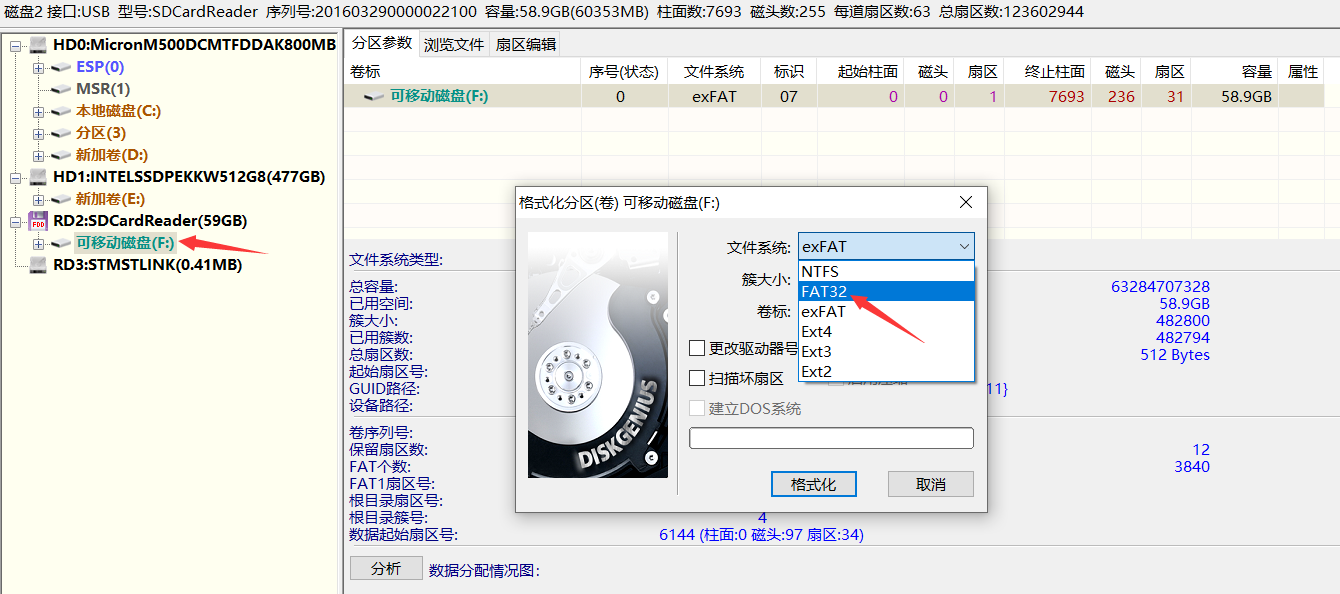
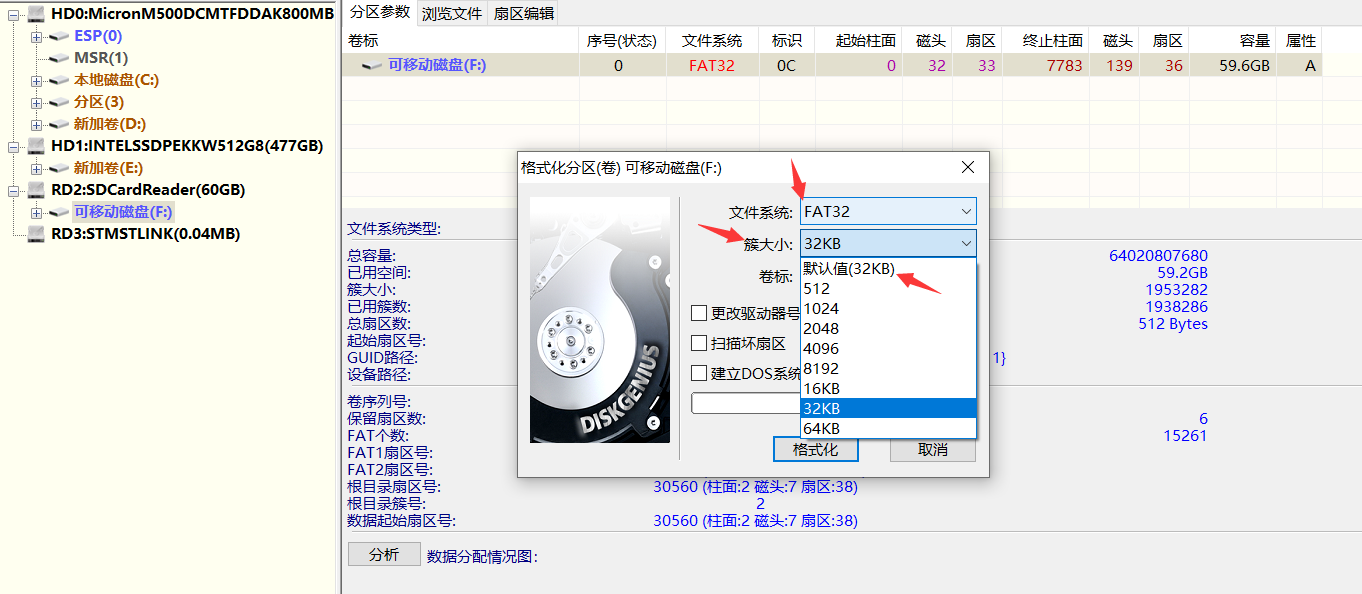
2023-03-16

diff --git a/H750VBT6_chapter_88/README.md b/H750VBT6_chapter_88/README.md
@@ -6,7 +6,7 @@
 
 FATFS版本：R0.12c
 
-本工程使用三星64G evo 红卡 和闪迪64G ultra测试，使用DiskGenius格式化两款sd卡为FAT32 + 簇大小32KB（默认值），簇大小多大的问题
+本工程使用三星64G evo 红卡 和闪迪64G ultra测试，使用DiskGenius格式化两款sd卡为FAT32 + 簇大小32KB（默认值）
 
 ## 参考资料
 
@@ -499,7 +499,7 @@ SDMMC 时钟源200MHz，分频 4，SDMMC 时钟50MHz
 
 exFAT 报错无法被 H7 发现 有效的分区，使用 DiskGenius格式化为FAT32后识别：
 
-![将闪迪64G_Ultra格式化为FAT32](Images/将闪迪64G_Ultra格式化为FAT32.png)
+![](Images/将闪迪64G_Ultra从exFAT格式化为FAT32.png)
 
 原因在CubeMX 配置我没有开启 exFAT支持：导致生成的的 ffconf.h 路径: FATFS/Target/ffconf.h 中 _FS_EXFAT 未使能
 
@@ -862,4 +862,98 @@ TEST FILE LEN: 8192KB
 开始读文件 8192KB ...
   读耗时 : 879ms   平均读速度 : 4657156B/S (9319KB/S)
 ```
+
+## 簇大小
+
+本工程使用三星64G evo 红卡 和闪迪64G ultra测试，使用DiskGenius格式化两款sd卡为FAT32 + 簇大小32KB（默认值），但格式化时可选簇大小有很多：
+
+![](Images/将闪迪64G_Ultra格式化为FAT32.png)
+
+### 问题
+
+[簇大小有什么影响？](https://wgznz.com/zhinan/10523-1.html)、[什么是磁盘碎片？](https://zhuanlan.zhihu.com/p/313088037)
+
+### 簇大小与储存效率
+
+测试不同IO/SIZE后的SD卡内的speed文件的大小等于占用空间，储存效率是 100%
+
+![](Images/簇大小32KB测试2.png)
+
+新建两个文本文档，其中1.txt 中未写入任何字符，2.txt 中随便敲了几个字符，二者大小和占用空间如下：
+
+![](Images/簇大小32KB测试1.png)
+
+可以看到 1.txt 中未写入任何字符 的占用 0字节，文件头不会被属性的占用空间统计，2.txt 中写入了几个字符，但不足簇大小，划分了一个簇存储，储存效率 7 / 32768 ≈ 0.021%
+
+暂时不推导到非连续储存，只考虑连续储存的规律：
+
+例1：有32个数据大小以2幂次分布的 1byte 到 4GB的文件（1B、2B、4B ... 4GB）需要连续存储在SD卡  
+
+- 当簇大小为32KB时
+
+  > 所有数据大小小于32KB的文件均占用一个32KB的簇，那么32个文件的
+  >
+  > 总占用空间为：
+  >
+  > ( log2( 32 x 1024) + 1 ) x 32KB + 64KB + 128KB + ... 4GB 
+  >
+  > 储存效率为：
+  >
+  > (1B + 2B + 4B +... + 4GB) / ( ( log2 ( 32 x 1024 ) + 1 ) x 32KB + 64KB + 128KB + ... 4GB )
+
+- 当簇大小为4KB时
+
+  > 所有数据大小小于4KB的文件均占用一个4KB的簇，那么32个文件的
+  >
+  > 总占用空间为：
+  >
+  > ( log2( 4 x 1024) + 1 ) x 32KB + 64KB + 128KB + ... 4GB 
+  >
+  > 储存效率为：
+  >
+  > (1B + 2B + 4B +... + 4GB) / ( ( log2 ( 4 x 1024 ) + 1 ) x 32KB + 64KB + 128KB + ... 4GB )
+
+很明显该情况下，簇越小，存储效率越高，簇越大，存储效率越低
+
+例2：有32个数据大小都是 8MB 的文件需要连续存储在SD卡  
+
+- 当簇大小为32KB时
+
+  > 那么32个文件的
+  >
+  > 总占用空间为：8MB x 32 
+  >
+  > 储存效率为：100%
+
+- 当簇大小为4KB时
+
+  > 那么32个文件的
+  >
+  > 总占用空间为：8MB x 32 
+  >
+  > 储存效率为：100%
+
+若文件都是2幂次大小且都大于簇大小，那么不论文件多大或簇多小，储存效率都是 100%
+
+### 簇大小与查找文件速度
+
+感觉这个也要分文件系统、磁盘使用场景、磁盘碎片的产生综合分析，很难得出放之四海而皆准的结论
+
+- 连续/非连续储存 n个 8MB，查找任意一个
+
+- 连续/非连续储存 n个 小于簇大小的文件，查找任意一个
+
+- 非连续：例如当作源码工程暂存盘，经常新建、删除、编辑、插入代码文件，经常编译
+
+  > 簇越大，储存效率越低，随着使用，磁盘碎片增加率比较小，查找某一个源码文件比较快
+  > 簇越小，储存效率越高，随着使用，磁盘碎片增加率比较大，查找某一个源码文件比较慢
+  > （不论簇越大小，总体上，随着使用磁盘碎片都是增加的，查找某一个源码文件速度都是变慢的）
+
+### 簇大小与读写文件速度
+
+[格式化SD时，簇大小的分配，簇越大速度越快，但较浪费](https://www.armbbs.cn/forum.php?mod=viewthread&tid=13819&highlight=%B8%F1%CA%BD%BB%AFSD%CA%B1%A3%AC%B4%D8%B4%F3%D0%A1%B5%C4%B7%D6)
+
+另外在参考资料小节中的 ”问题：FatFs缓冲开到等于簇大小有什么优势？" 中有个人的非专业分析 
+
+
 
